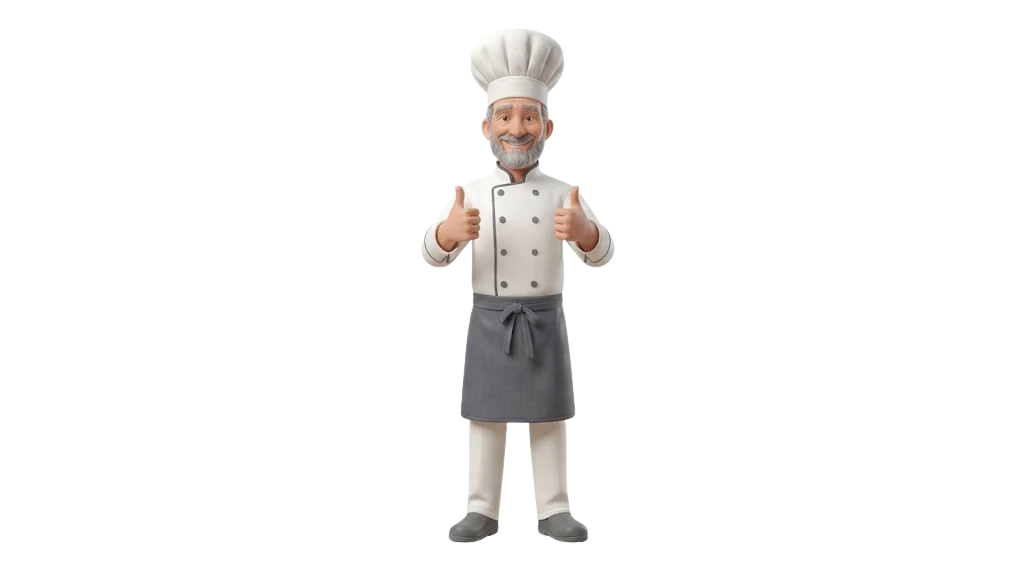
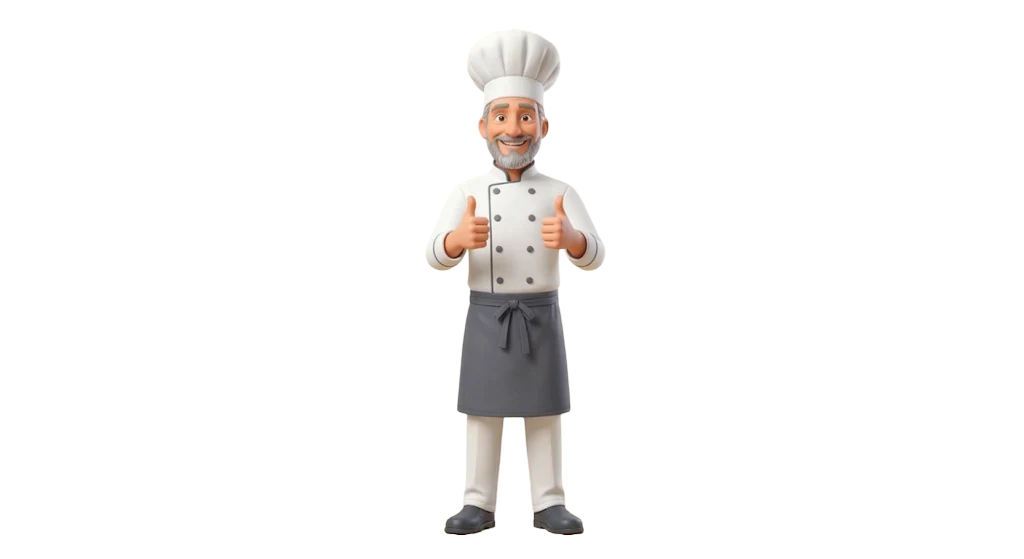
Update Approval Images

Changed region(s): [[0.4062, 0.0608, 0.625, 0.9732]]

diff --git a/index.html b/index.html
@@ -195,15 +195,6 @@
     const recipe_book_fruit_data = [
         // Daphnie Jones
         new RecipeEntry(
-            "Daphnie Jones/images/quesadilla.jpg",
-            "Daphnie Jones/DJ_Page1.html",
-            "Breakfast Quesadilla",
-            "A warm tortilla filled with eggs, cheese, and your favorite breakfast ingredients.",
-            1,
-            5,
-            Season.SPRING
-        ),
-        new RecipeEntry(
             "Daphnie Jones/images/french_toast.jpg",
             "Daphnie Jones/DJ_Page2.html",
             "French Toast",
@@ -211,6 +202,15 @@
             1,
             0,
             Season.WINTER
+        ),
+        new RecipeEntry(
+            "Daphnie Jones/images/quesadilla.jpg",
+            "Daphnie Jones/DJ_Page1.html",
+            "Breakfast Quesadilla",
+            "A warm tortilla filled with eggs, cheese, and your favorite breakfast ingredients.",
+            1,
+            5,
+            Season.SPRING
         ),
         new RecipeEntry(
             "Daphnie Jones/images/crepes.jpg",
@@ -268,7 +268,7 @@
             "A golden, Cajun-spiced crispy tilapia fillet served on a toasted bun with cool, tangy toppings for a bold and crunchy bite.",
             3,
             3,
-            Season.WINTER
+            Season.SPRING
         ),
         new RecipeEntry(
             "Jaylin Jordan/steak sandwich recipie.webp",
@@ -346,7 +346,7 @@
             "Brisket takes time, but the smoky flavor makes it worth the wait.",
             4,
             0,
-            Season.AUTUMN
+            Season.SUMMER
         ),
         new RecipeEntry(
             "Deja Ware/images/chicken.jpg",
